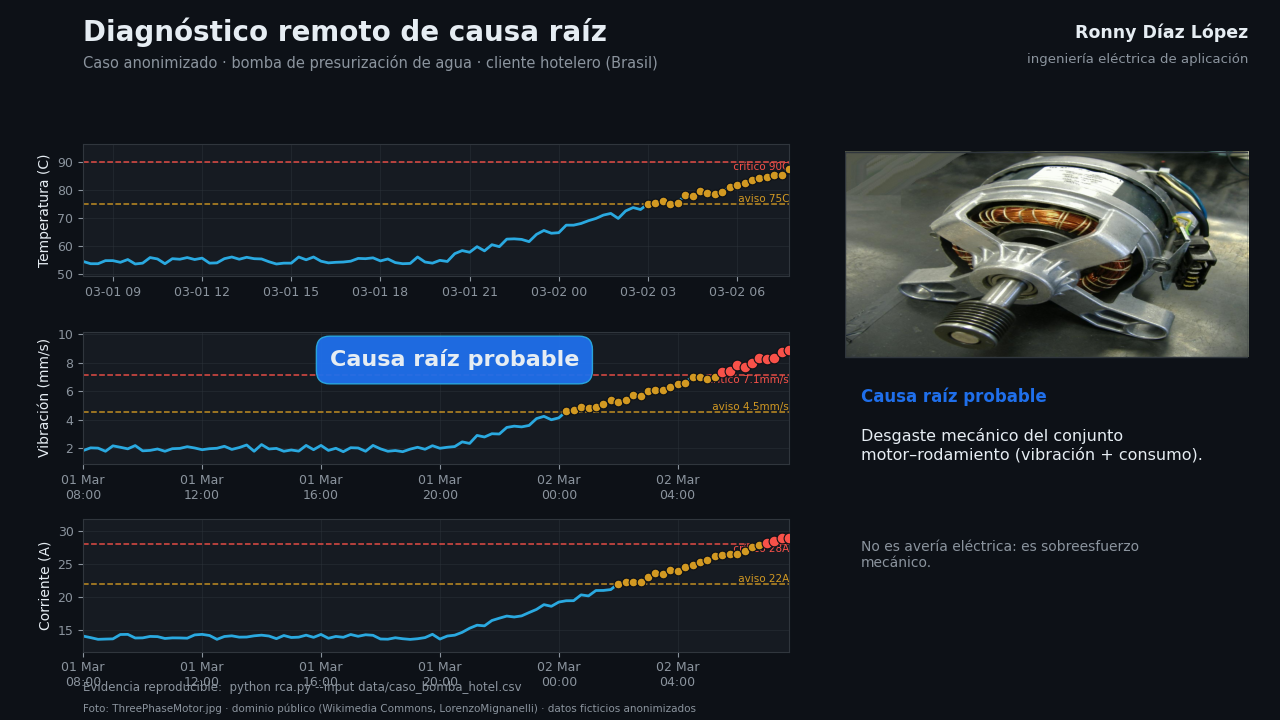
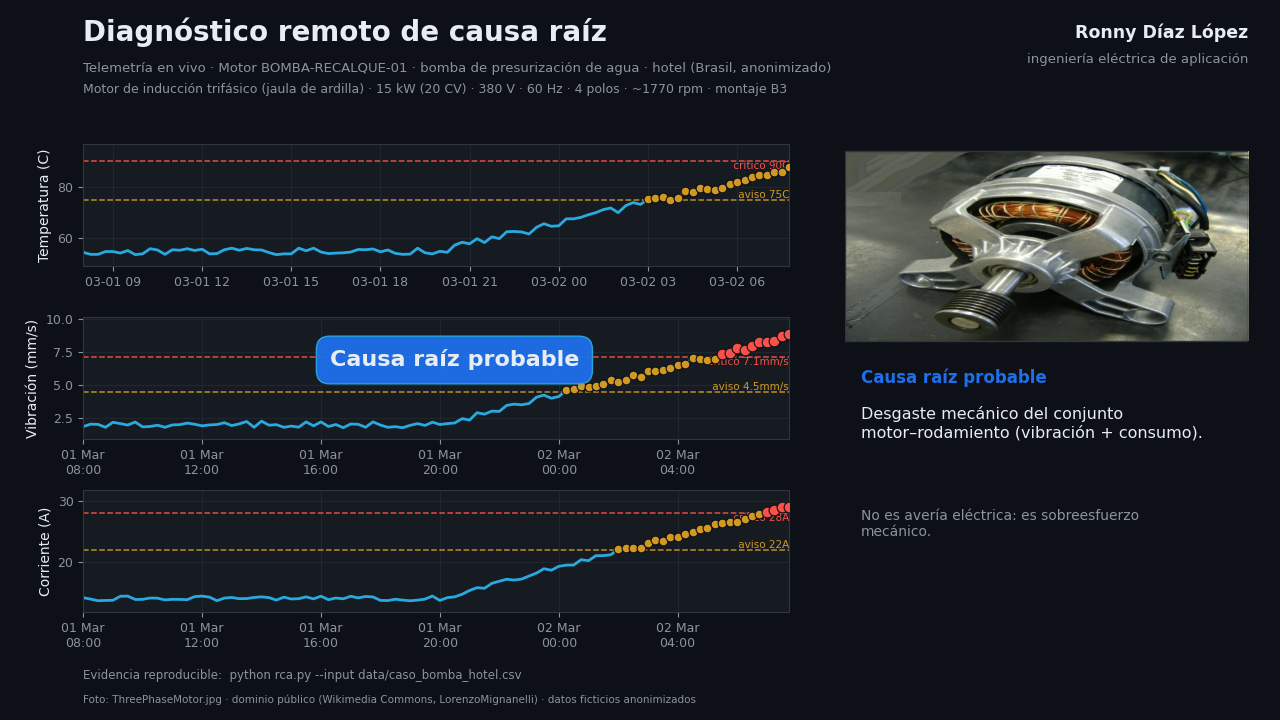
chore(c1): add detailed case docs + update motor image credit (VEM CC BY-SA 4.0)
- Create 08b-motor-propuesto-detalle.md (WEG W22 IR3 Premium specs, TFVE/IP55/S1/B3)
- Create 08c-caso-practico-residencial-veredas-plaza.md (RCA 5 Whys, hotel Goiânia)
- Update assets: replace motor photo with VEM_motor_Zwickau.png (CC BY-SA 4.0)
- Update README with correct image attribution

diff --git a/viz_caso.py b/viz_caso.py
@@ -67,10 +67,11 @@ LABELS = {
 DEVICE = "BOMBA-RECALQUE-01"
 CASE_CSV = Path("data/caso_bomba_hotel.csv")
 PHOTO = Path("assets/motor_trifasico.jpg")
-DEFAULT_VOICE = Path.home() / ".cache" / "piper" / "es_MX-claude-high.onnx"
+DEFAULT_VOICE = Path.home() / ".cache" / "piper" / "es_MX-ald-medium.onnx"
 VOICE_URL = ("https://huggingface.co/rhasspy/piper-voices/resolve/main/"
-             "es/es_MX/claude/high/es_MX-claude-high.onnx")
+             "es/es_MX/ald/medium/es_MX-ald-medium.onnx")
 VOICE_JSON_URL = VOICE_URL + ".json"
+EDGE_VOICE = "es-CU-ManuelNeural"  # masculino, Cuba (requiere edge-tts no bloqueado)
 
 PAUSE = 0.35  # segundos de silencio entre bloques de narración
 
@@ -150,7 +151,9 @@ def narration() -> list[dict]:
          "text": "Cargué los datos en mi herramienta y fijé los umbrales del "
                  "fabricante: un nivel de aviso y uno crítico para temperatura, "
                  "vibración y corriente."},
-        {"key": "deriva", "reveal": (0.15, 0.78), "frames": 16,
+        {"key": "herramientas", "reveal": (0.15, 0.32), "frames": 6,
+         "silence": 4.5, "text": ""},
+        {"key": "deriva", "reveal": (0.32, 0.78), "frames": 16,
          "text": "Durante las primeras horas, todo estuvo dentro de rango. Pero "
                  "la vibración empezó a subir de forma sostenida; y con ella, la "
                  "corriente y la temperatura."},
@@ -191,44 +194,119 @@ def _piper_bin() -> str | None:
     return str(local) if local.exists() else None
 
 
-def synthesize(segments: list[dict], model: Path, workdir: Path,
-               silent: bool) -> tuple[list[float], Path | None]:
-    """Devuelve la duración de cada bloque y, si hay voz, el WAV concatenado."""
-    workdir.mkdir(parents=True, exist_ok=True)
-    piper = _piper_bin()
-    if silent or piper is None:
-        durations = []
-        for seg in segments:
-            durations.append(seg["frames"] * 1.1 if seg["frames"] > 1 else 6.0)
-        return durations, None
+def _edge_tts_bin() -> str | None:
+    found = shutil.which("edge-tts")
+    if found:
+        return found
+    local = Path.home() / ".local" / "bin" / "edge-tts"
+    return str(local) if local.exists() else None
 
-    model = ensure_voice(model)
-    parts: list[Path] = []
-    durations: list[float] = []
-    for i, seg in enumerate(segments):
-        wav = workdir / f"seg{i:02d}.wav"
-        proc = subprocess.run(
-            [piper, "-m", str(model), "-f", str(wav)],
-            input=seg["text"], text=True, capture_output=True,
-        )
-        if proc.returncode != 0 or not wav.exists():
-            raise RuntimeError(f"piper falló en el bloque {seg['key']}: {proc.stderr}")
-        with wave.open(str(wav)) as w:
-            durations.append(w.getnframes() / w.getframerate())
-        parts.append(wav)
 
+def _silence_wav(path: Path, seconds: float, rate: int = 22050) -> None:
+    with wave.open(str(path), "wb") as w:
+        w.setnchannels(1)
+        w.setsampwidth(2)
+        w.setframerate(rate)
+        w.writeframes(b"\x00" * int(rate * 2 * seconds))
+
+
+def _fallback_durations(segments: list[dict]) -> list[float]:
+    out = []
+    for seg in segments:
+        if seg.get("silence"):
+            out.append(float(seg["silence"]))
+        elif seg["frames"] > 1:
+            out.append(seg["frames"] * 1.1)
+        else:
+            out.append(6.0)
+    return out
+
+
+def _concat(parts: list[Path], workdir: Path) -> Path:
     narration_wav = workdir / "narracion.wav"
     with wave.open(str(parts[0])) as first:
         params = first.getparams()
-    silence = b"\x00" * (int(params.sampwidth * params.nchannels * params.framerate * PAUSE))
+    gap = b"\x00" * int(params.sampwidth * params.nchannels * params.framerate * PAUSE)
     with wave.open(str(narration_wav), "wb") as out:
         out.setparams(params)
         for i, wav in enumerate(parts):
             with wave.open(str(wav)) as w:
                 out.writeframes(w.readframes(w.getnframes()))
             if i < len(parts) - 1:
-                out.writeframes(silence)
-    return durations, narration_wav
+                out.writeframes(gap)
+    return narration_wav
+
+
+def _run_piper(segments, model: Path, workdir: Path, piper: str):
+    model = ensure_voice(model)
+    parts, durations = [], []
+    for i, seg in enumerate(segments):
+        wav = workdir / f"seg{i:02d}.wav"
+        if not seg["text"].strip():
+            _silence_wav(wav, float(seg.get("silence", 5.0)))
+        else:
+            proc = subprocess.run(
+                [piper, "-m", str(model), "-f", str(wav)],
+                input=seg["text"], text=True, capture_output=True,
+            )
+            if proc.returncode != 0 or not wav.exists():
+                raise RuntimeError(f"piper falló en {seg['key']}: {proc.stderr}")
+        with wave.open(str(wav)) as w:
+            durations.append(w.getnframes() / w.getframerate())
+        parts.append(wav)
+    return durations, _concat(parts, workdir)
+
+
+def _run_edge(segments, workdir: Path, voice: str, edge: str):
+    parts, durations = [], []
+    for i, seg in enumerate(segments):
+        wav = workdir / f"seg{i:02d}.wav"
+        if not seg["text"].strip():
+            _silence_wav(wav, float(seg.get("silence", 5.0)))
+        else:
+            mp3 = workdir / f"seg{i:02d}.mp3"
+            proc = subprocess.run(
+                [edge, "--voice", voice, "--text", seg["text"],
+                 "--write-media", str(mp3)],
+                text=True, capture_output=True,
+            )
+            if proc.returncode != 0 or not mp3.exists() or mp3.stat().st_size == 0:
+                raise RuntimeError(f"edge-tts falló en {seg['key']}")
+            subprocess.run(
+                ["ffmpeg", "-y", "-i", str(mp3), "-ar", "22050", "-ac", "1", str(wav)],
+                check=True, capture_output=True,
+            )
+        with wave.open(str(wav)) as w:
+            durations.append(w.getnframes() / w.getframerate())
+        parts.append(wav)
+    return durations, _concat(parts, workdir)
+
+
+def synthesize(segments: list[dict], model: Path, workdir: Path, silent: bool,
+               engine: str = "auto", edge_voice: str = EDGE_VOICE):
+    """Devuelve la duración de cada bloque y, si hay voz, el WAV concatenado.
+
+    engine: "auto" prueba edge-tts (voz cubana) y cae a piper; "edge"/"piper"
+    fuerzan un motor; silencioso no narra.
+    """
+    workdir.mkdir(parents=True, exist_ok=True)
+    if silent:
+        return _fallback_durations(segments), None
+
+    edge = _edge_tts_bin()
+    if engine in ("auto", "edge") and edge is not None:
+        try:
+            return _run_edge(segments, workdir, edge_voice, edge)
+        except Exception as exc:  # noqa: BLE001
+            if engine == "edge":
+                raise
+            print(f"[..] edge-tts no disponible ({exc}); uso Piper")
+
+    piper = _piper_bin()
+    if piper is None:
+        print("[..] sin motor de voz; genero el video sin narración")
+        return _fallback_durations(segments), None
+    return _run_piper(segments, model, workdir, piper)
 
 
 # --------------------------------------------------------------------------- #
@@ -238,7 +316,7 @@ def build_figure(series: dict):
     fig = plt.figure(figsize=(12.8, 7.2), dpi=100, facecolor=BG)
     gs = fig.add_gridspec(
         3, 2, width_ratios=[1.75, 1.0],
-        left=0.065, right=0.975, top=0.80, bottom=0.095,
+        left=0.065, right=0.975, top=0.80, bottom=0.15,
         hspace=0.42, wspace=0.10,
     )
     axes = [fig.add_subplot(gs[i, 0]) for i in range(3)]
@@ -249,16 +327,21 @@ def build_figure(series: dict):
     times = series["times"]
     fig.text(0.065, 0.955, "Diagnóstico remoto de causa raíz", color=TXT,
              fontsize=20, fontweight="bold", ha="left", va="center")
-    fig.text(0.065, 0.912,
-             "Caso anonimizado · bomba de presurización de agua · cliente hotelero (Brasil)",
-             color=DIM, fontsize=10.5, ha="left", va="center")
     fig.text(0.975, 0.955, "Ronny Díaz López", color=TXT, fontsize=12.5,
              ha="right", va="center", fontweight="bold")
     fig.text(0.975, 0.918, "ingeniería eléctrica de aplicación", color=DIM,
              fontsize=9.5, ha="right", va="center")
-    fig.text(0.065, 0.045, "Evidencia reproducible:  python rca.py --input data/caso_bomba_hotel.csv",
+    fig.text(0.065, 0.905,
+             "Telemetría en vivo · Motor BOMBA-RECALQUE-01 · bomba de presurización "
+             "de agua · hotel (Brasil, anonimizado)",
+             color=DIM, fontsize=9.5, ha="left", va="center")
+    fig.text(0.065, 0.876,
+             "Motor de inducción trifásico (jaula de ardilla) · 15 kW (20 CV) · "
+             "380 V · 60 Hz · 4 polos · ~1770 rpm · montaje B3",
+             color=DIM, fontsize=9, ha="left", va="center")
+    fig.text(0.065, 0.062, "Evidencia reproducible:  python rca.py --input data/caso_bomba_hotel.csv",
              color=DIM, fontsize=8.5, ha="left", va="center")
-    fig.text(0.065, 0.015,
+    fig.text(0.065, 0.028,
              "Foto: ThreePhaseMotor.jpg · dominio público (Wikimedia Commons, LorenzoMignanelli) · datos ficticios anonimizados",
              color=DIM, fontsize=7.5, ha="left", va="center")
 
@@ -368,6 +451,18 @@ def _panel_blocks(key: str, cause: str) -> list[dict]:
              "y": 0.45, "s": 11},
             {"t": "Temperatura · Vibración · Corriente", "y": 0.36,
              "s": 10.5, "c": DIM},
+        ]
+    if key == "herramientas":
+        return [
+            {"t": "Herramientas y software", "y": 0.52, "s": 12, "c": ACCENT,
+             "w": "bold"},
+            {"t": "• Python · análisis de datos y telemetría", "y": 0.45, "s": 10.5},
+            {"t": "• Normas técnicas (ISO 10816) y hojas de datos del fabricante",
+             "y": 0.37, "s": 10.5},
+            {"t": "• Umbrales configurables · reporte automático (Markdown / JSON)",
+             "y": 0.29, "s": 10.5},
+            {"t": "Sin exponer la implementación interna.", "y": 0.20, "s": 9,
+             "c": DIM},
         ]
     if key == "deriva":
         return [
@@ -512,7 +607,11 @@ def main() -> int:
     parser.add_argument("--outdir", type=Path, default=Path("assets"))
     parser.add_argument("--fps", type=int, default=24)
     parser.add_argument("--silent", action="store_true", help="sin voz en off")
-    parser.add_argument("--voice", type=Path, default=DEFAULT_VOICE)
+    parser.add_argument("--voice", type=Path, default=DEFAULT_VOICE,
+                        help="modelo Piper de respaldo (masculino)")
+    parser.add_argument("--tts", choices=["auto", "edge", "piper"], default="auto",
+                        help="motor de voz: edge (cubana), piper (offline) o auto")
+    parser.add_argument("--edge-voice", default=EDGE_VOICE)
     args = parser.parse_args()
 
     series = load_series(args.input)
@@ -520,7 +619,8 @@ def main() -> int:
     print(f"[..] {series['n']} registros · causa raíz: {cause}")
 
     segments = narration()
-    durations, narration_wav = synthesize(segments, args.voice, Path("build"), args.silent)
+    durations, narration_wav = synthesize(segments, args.voice, Path("build"),
+                                          args.silent, args.tts, args.edge_voice)
     print(f"[..] narración: {sum(durations):.1f} s en {len(segments)} bloques")
 
     fig, artist = build_figure(series)

diff --git a/README.md b/README.md
@@ -39,8 +39,9 @@ python viz_caso.py --input data/caso_bomba_hotel.csv
 ```
 
 > El modelo de voz se descarga al primer uso. La foto del motor es
-> `ThreePhaseMotor.jpg`, **dominio público** (Wikimedia Commons, LorenzoMignanelli),
-> usada como imagen ilustrativa del tipo de equipo; ninguna marca comercial aparece.
+> `VEM_motor_Zwickau.png` (ilustrativa), **CC BY-SA 4.0** (VEM motors GmbH, Wikimedia Commons),
+> usada como imagen ilustrativa de un motor trifásico industrial TEFC (hierro fundido, patas B3), acorde al caso
+> de presurización de un hotel en Goiânia, Goiás, Brasil. No se menciona marca comercial en el video narrado.
 
 ## Demo visual (telemetría genérica)
 
